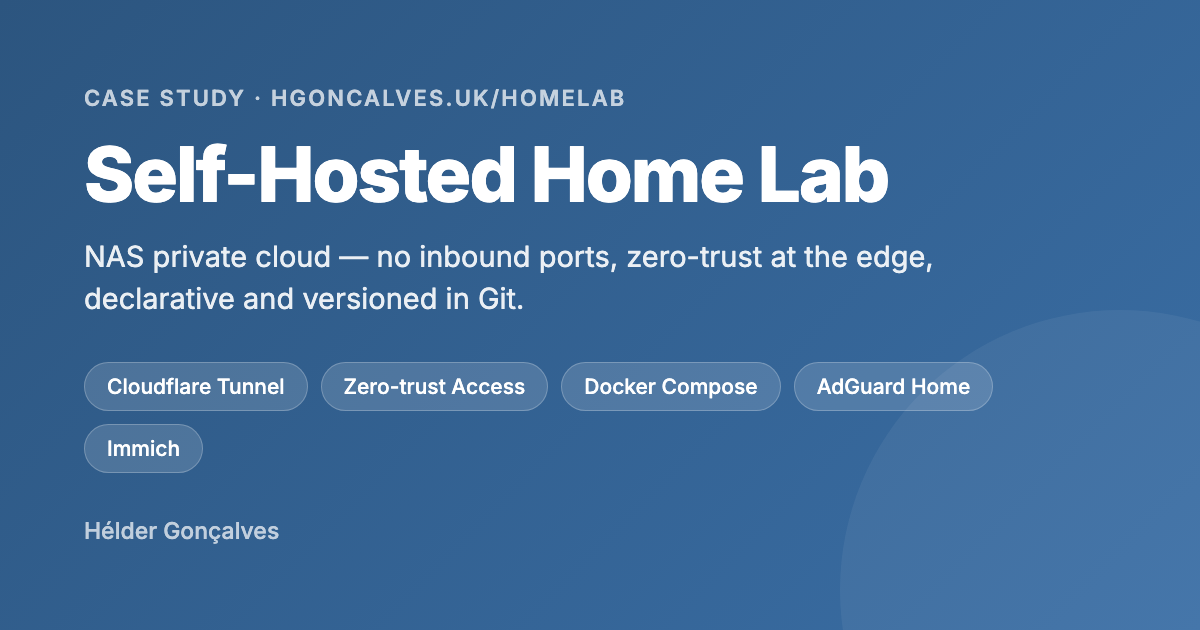
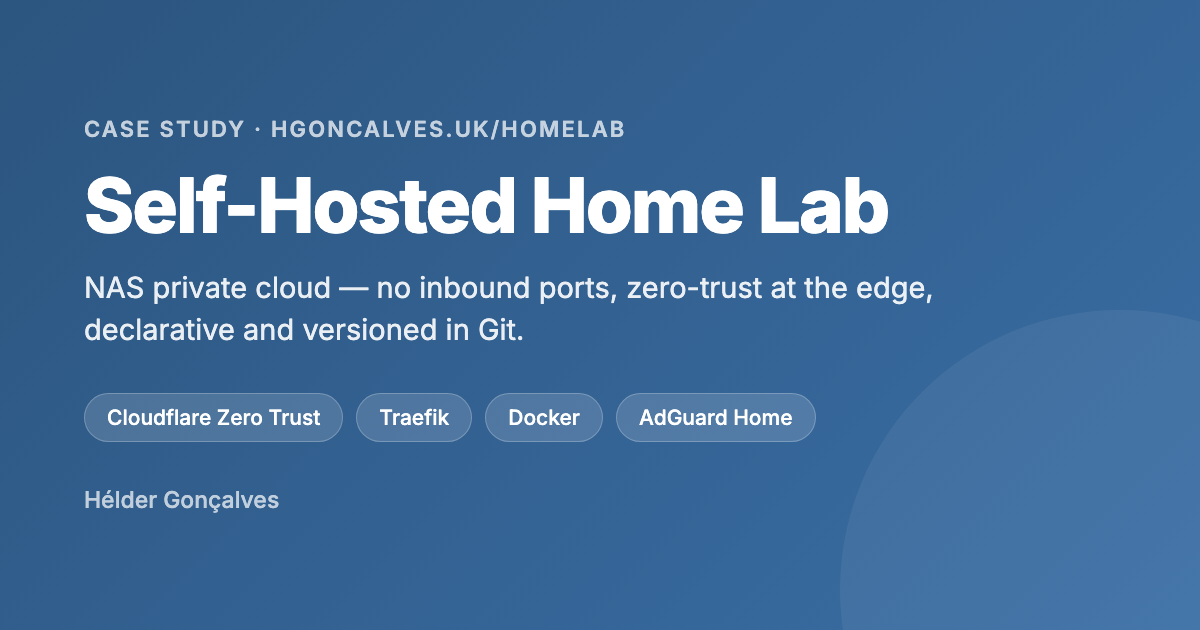
Bring the home lab link preview in line with the Traefik stack

Changed region(s): [[0.0617, 0.1206, 0.7708, 0.5429], [0.0617, 0.573, 0.8325, 0.754], [0.0617, 0.7841, 0.2467, 0.8746]]

diff --git a/src/data/homelab.ts b/src/data/homelab.ts
@@ -108,7 +108,7 @@ export const homelab: HomelabPageData = {
   meta: {
     title: 'Self-Hosted Home Lab · Hélder Gonçalves',
     description:
-      'Case study of a NAS-based private cloud: Cloudflare Tunnel, zero-trust Access, AdGuard Home with DoH, Immich, OpenCloud, and monitoring — declarative in Git.',
+      'Case study of a NAS-based private cloud: no inbound ports, Cloudflare Tunnel into a Traefik reverse proxy, zero-trust Access, AdGuard Home with DoH, and monitoring — declarative in Git.',
     canonical: 'https://hgoncalves.uk/homelab/',
     image: 'https://hgoncalves.uk/og-homelab.png',
     datePublished: '2026-08-10',

diff --git a/scripts/og-cards/homelab.html b/scripts/og-cards/homelab.html
@@ -50,11 +50,10 @@
       declarative and versioned in Git.
     </div>
     <div class="chips">
-      <span class="chip">Cloudflare Tunnel</span>
-      <span class="chip">Zero-trust Access</span>
-      <span class="chip">Docker Compose</span>
+      <span class="chip">Cloudflare Zero Trust</span>
+      <span class="chip">Traefik</span>
+      <span class="chip">Docker</span>
       <span class="chip">AdGuard Home</span>
-      <span class="chip">Immich</span>
     </div>
     <div class="byline">Hélder Gonçalves</div>
   </div>
